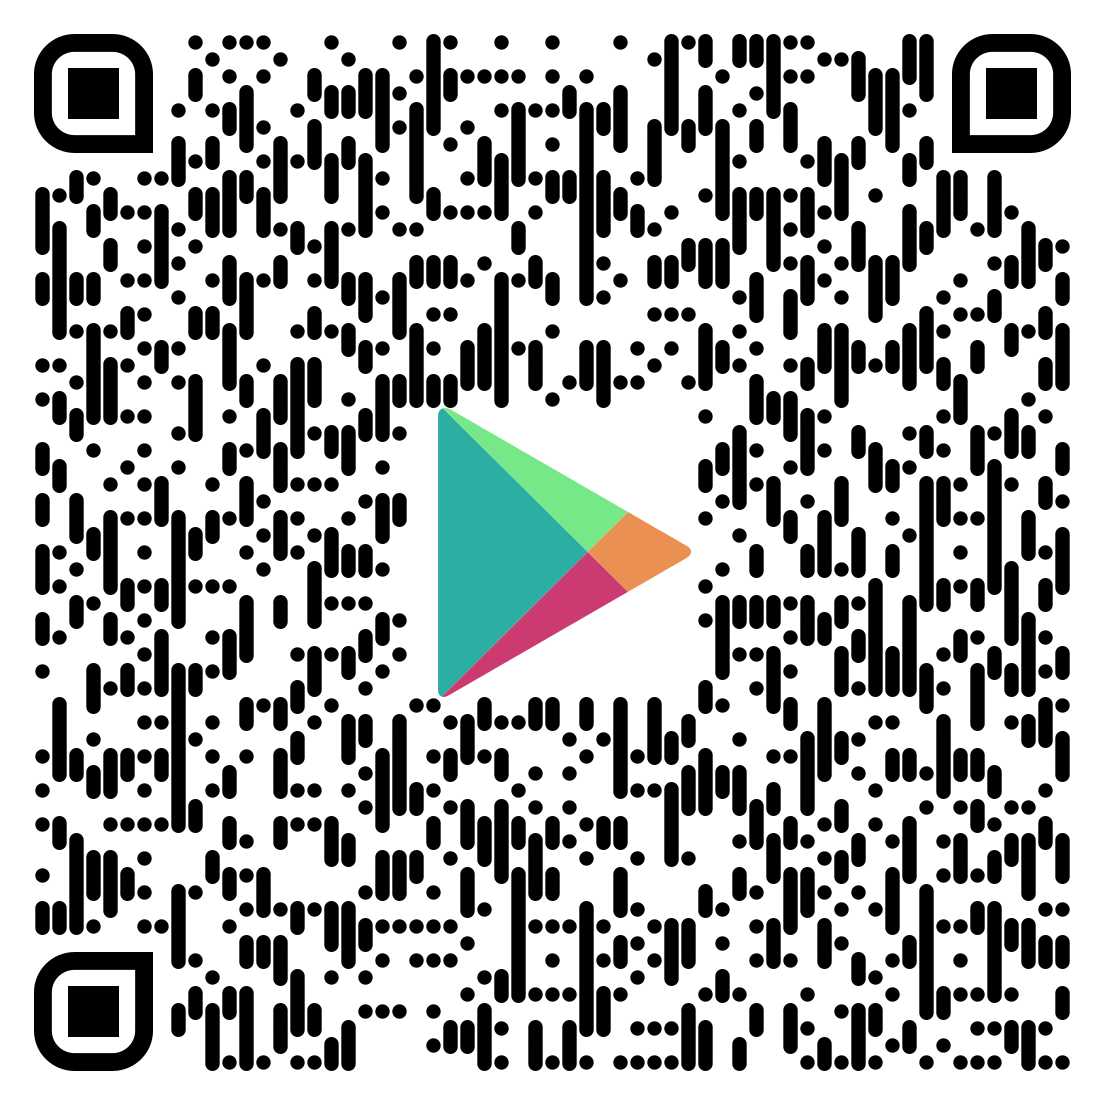
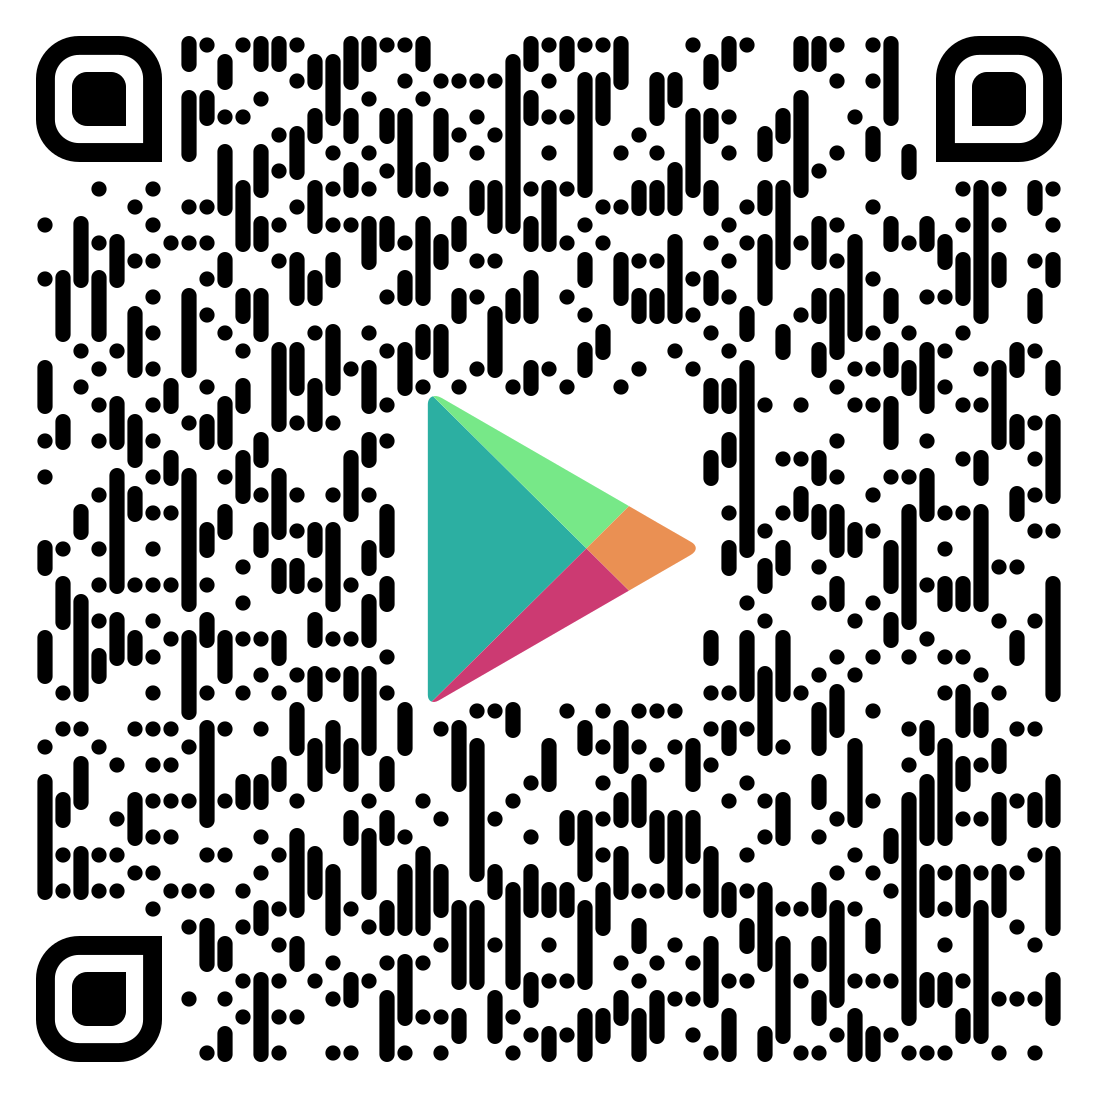
Update links and index page

diff --git a/index.html b/index.html
@@ -6,7 +6,7 @@
     <meta name="viewport" content="width=device-width, initial-scale=1.0">
     <meta
         name="description"
-        content="Share your stories with the world: Every memory anchored in time and place."
+        content="In this page, you can download the Memories app."
     />
     <title>Memories</title>
     <style>
@@ -21,9 +21,9 @@
         }
 
         img {
-            max-width: 512px;
+            max-width: 384px;
             height: auto;
-            margin: 10px;
+            margin: 16px;
         }
     </style>
 
@@ -36,11 +36,12 @@
     <img src="img/android.png" alt="Android App">
     <img src="img/web.png" alt="Web App">
 
-
-    <p>Alternatively, you can open up the app using the links below:</p>
+    <p>Or you can open up the app by using the links below:</p>
     <ul>
-        <li><a href="http://34.68.58.169:3000/" target="_blank">Web App</a></li>
-        <li><a href="https://github.com/SWE574-Fall2023-Group1/SWE574-Fall2023-G1-mobile/releases/download/customer-milestone-2.1/app-release-0.2.1-alpha.apk" target="_blank">Android App</a></li>
+        <li><a href="http://34.66.132.236:3000/" target="_blank"><h3>Web App</h3></a></li>
+        <li><a
+            href="https://github.com/SWE574-Fall2023-Group1/SWE574-Fall2023-G1-mobile/releases/download/0.9/app-release-0.9.apk"
+            target="_blank"><h3>Android App</h3></a></li>
     </ul>
 </body>
 </html>
